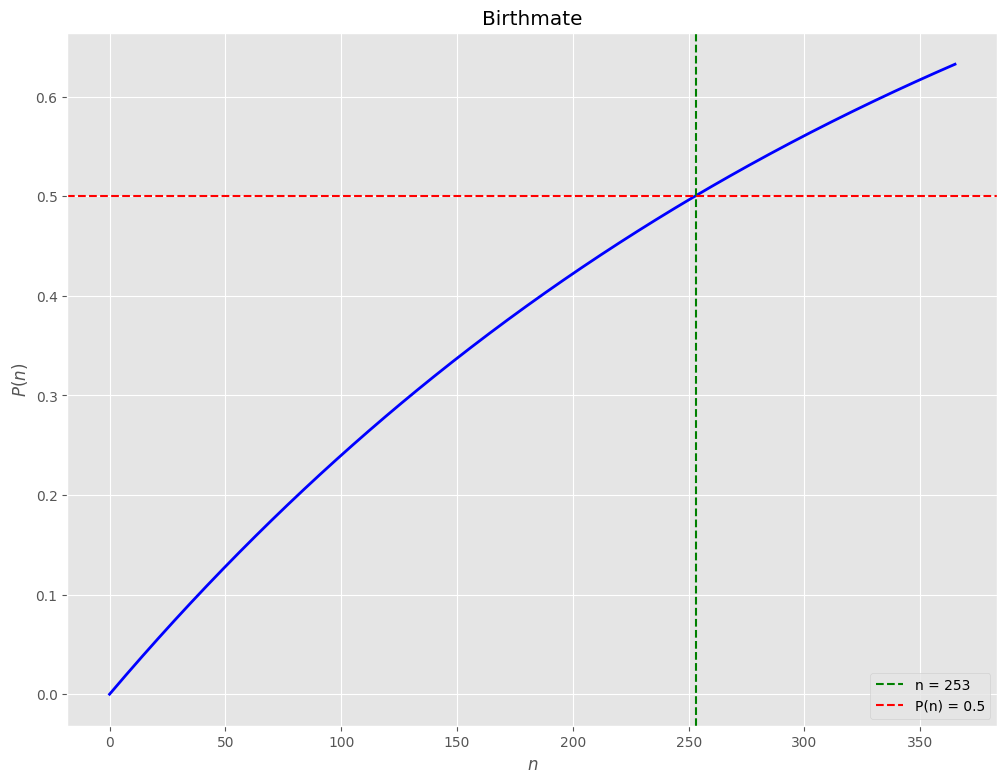
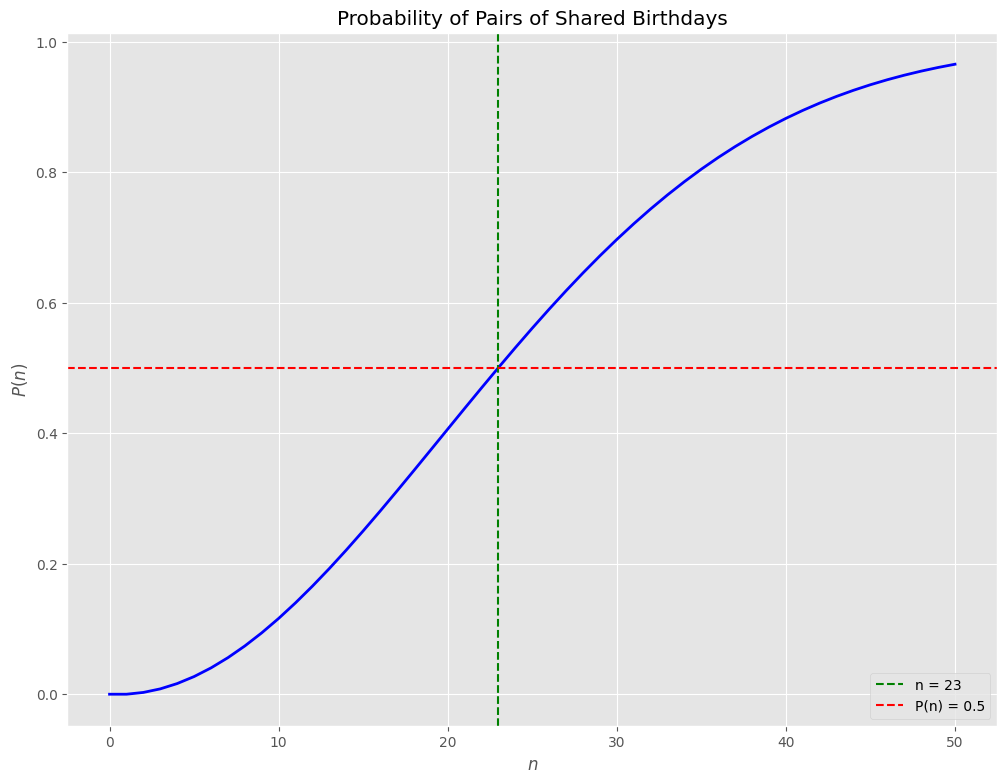
some changes to the birthday problem

diff --git a/problems/birthday_paradox/birthday_paradox_02.py b/problems/birthday_paradox/birthday_paradox_02.py
@@ -3,7 +3,7 @@
 import numpy as np
 import matplotlib.pyplot as plt
 
-from scipy.special import perm
+from scipy.special import comb
 
 
 
@@ -14,12 +14,12 @@ plt.style.use("ggplot")
 
 # %% 1 - 
 def function(n):
-    return 1 - np.exp(n * (np.log(364) - np.log(365)))
+    return 1 - np.exp(comb(n, 2) * (np.log(364) - np.log(365)))
 
 
 
 # %% 2 - 
-x = np.arange(0, 366, 1)
+x = np.arange(0, 51, 1)
 y = function(x)
 
 
@@ -32,7 +32,7 @@ p = round(y[n], 2)
 
 # %% 4 - 
 plt.figure(figsize = (12, 9))
-plt.title("Birthmate")
+plt.title("Probability of Pairs of Shared Birthdays")
 plt.xlabel("$n$")
 plt.ylabel("$P(n)$")
 

diff --git a/problems/birthday_paradox/birthday_paradox_01.py b/problems/birthday_paradox/birthday_paradox_01.py
@@ -32,7 +32,7 @@ p = round(y[n], 2)
 
 # %% 4 - 
 plt.figure(figsize = (12, 9))
-plt.title("Birthday Paradox")
+plt.title("Probability of Shared Birthdays")
 plt.xlabel("$n$")
 plt.ylabel("$P(n)$")
 
